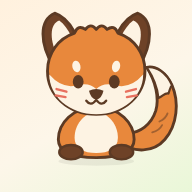
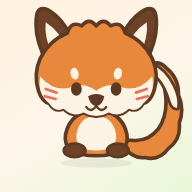
Match the reference proportions, and hinge the kiwi's beak properly
The fox was drawn at realistic proportions while the reference is chibi:
the head dominates the figure, the ears are huge, the tail is nearly as
big as the body and the linework is much heavier. The fox is redrawn to
those proportions, with fur tufts along the crown and cheeks and a cream
tail tip.

The kiwi's open beak was two parallel sticks. A beak hinges at the skull,
so the halves now share that point and fan apart toward the tip, with the
mouth visible between them.

Claude-Session: https://claude.ai/code/session_01GKCTeEFW4kYhF1b7yxURzv

Changed region(s): [[0.1562, 0.0312, 0.9688, 0.8438]]

diff --git a/app.js b/app.js
@@ -388,7 +388,7 @@ const ACCESSORY_TIERS = [
   {
     level: 2,
     label: "Mössa",
-    markup: `<g transform="translate(100,34)">
+    markup: `<g transform="translate(100,26)">
       <path d="M-30 6 Q-30 -20 0 -20 Q30 -20 30 6 Z" fill="#ff8f6b"/>
       <rect x="-33" y="4" width="66" height="9" rx="4.5" fill="#ffd0b8"/>
       <circle cx="0" cy="-24" r="7" fill="#ffd0b8"/>
@@ -430,8 +430,8 @@ const ACCESSORY_TIERS = [
   {
     level: 12,
     label: "Solglasögon",
-    offset: { kiwi: [-4, -26] },
-    markup: `<g transform="translate(101,84)">
+    offset: { kiwi: [-4, -34] },
+    markup: `<g transform="translate(100,92)">
       <ellipse cx="-20" cy="0" rx="11" ry="9" fill="#4a3f5c"/>
       <ellipse cx="20" cy="0" rx="11" ry="9" fill="#4a3f5c"/>
       <path d="M-9 -2 Q0 -9 9 -2" stroke="#4a3f5c" stroke-width="3" fill="none"/>
@@ -532,10 +532,13 @@ const KIWI_PALE = "#f2d9b6";
 // Lång smal näbb som pekar snett nedåt, med en liten näsborre nära spetsen.
 function kiwiBeakMarkup(mood) {
   if (mood === "yum") {
+    // En näbb öppnas i gångjärnet vid huvudet: halvorna sitter ihop där och
+    // glider isär mot spetsen.
     return `
-      <path d="M84 52 L28 92 Q23 96 29 98 L90 64 Z"
+      <path d="M89 62 L26 88 L37 117 Z" fill="#8c4a4a"/>
+      <path d="M84 52 L24 82 Q19 85 25 88 L90 64 Z"
             fill="${KIWI_PALE}" stroke="${KIWI_OUTLINE}" stroke-width="3" stroke-linejoin="round"/>
-      <path d="M86 74 L30 108 Q25 111 31 113 L90 86 Z"
+      <path d="M90 64 L34 113 Q30 117 36 119 L92 75 Z"
             fill="${KIWI_PALE}" stroke="${KIWI_OUTLINE}" stroke-width="3" stroke-linejoin="round"/>
     `;
   }
@@ -625,63 +628,66 @@ function foxEyesMarkup(mood, cx1, cx2, cy) {
 
 function foxMouthMarkup(mood) {
   if (mood === "yum") {
-    return `<path d="M88 106 Q100 122 112 106 Z" fill="#c4556a" stroke="${FOX_OUTLINE}" stroke-width="2.4" stroke-linejoin="round"/>`;
+    return `<path d="M88 113 Q100 129 112 113 Z" fill="#c4556a" stroke="${FOX_OUTLINE}" stroke-width="2.4" stroke-linejoin="round"/>`;
   }
   if (mood === "sad") {
-    return `<path d="M92 112 q8 -7 16 0" stroke="${FOX_OUTLINE}" stroke-width="2.6" fill="none" stroke-linecap="round"/>`;
+    return `<path d="M92 119 q8 -7 16 0" stroke="${FOX_OUTLINE}" stroke-width="2.6" fill="none" stroke-linecap="round"/>`;
   }
-  return `<path d="M100 104 q-6 8 -11 1 M100 104 q6 8 11 1" stroke="${FOX_OUTLINE}" stroke-width="2.6" fill="none" stroke-linecap="round"/>`;
+  return `<path d="M100 111 q-6 8 -11 1 M100 111 q6 8 11 1" stroke="${FOX_OUTLINE}" stroke-width="2.6" fill="none" stroke-linecap="round"/>`;
 }
 
 function renderFoxSVG(mood, level) {
   return `
   <svg viewBox="0 0 200 180" xmlns="http://www.w3.org/2000/svg">
-    <ellipse cx="100" cy="172" rx="42" ry="5" fill="#000" opacity="0.06"/>
+    <ellipse cx="100" cy="174" rx="40" ry="5" fill="#000" opacity="0.06"/>
 
-    <!-- luddig svans med ljus spets -->
-    <path d="M124 150 C142 164 164 162 176 148 C190 132 192 106 184 88 C178 74 166 66 156 68
-             C166 84 170 102 166 116 C161 132 148 140 136 141 C129 142 126 145 124 150 Z"
-          fill="${FOX_FUR}" stroke="${FOX_OUTLINE}" stroke-width="${FOX_SW}" stroke-linejoin="round"/>
-    <path d="M184 88 C178 74 166 66 156 68 C164 80 168 92 169 102
-             C174 100 176 96 180 97 C182 92 182 89 184 88 Z"
-          fill="${FOX_CREAM}" stroke="${FOX_OUTLINE}" stroke-width="2.4" stroke-linejoin="round"/>
-    <path d="M170 128 q7 -3 9 -9 M162 140 q8 -2 11 -8" stroke="${FOX_OUTLINE}" stroke-width="2" fill="none" stroke-linecap="round" opacity="0.5"/>
+    <!-- stor yvig svans, nästan lika stor som kroppen -->
+    <path d="M126 152 Q140 170 154 168 Q170 172 180 158 Q194 148 192 130 Q198 114 191 98
+             Q192 80 177 68 Q170 61 163 64 Q176 82 177 100 Q179 121 169 136
+             Q158 150 142 149 Q131 148 126 152 Z"
+          fill="${FOX_FUR}" stroke="${FOX_OUTLINE}" stroke-width="4" stroke-linejoin="round"/>
+    <path d="M163 64 Q177 70 186 88 Q193 102 191 114 Q184 116 181 106 Q174 82 160 74 Z"
+          fill="${FOX_CREAM}" stroke="${FOX_OUTLINE}" stroke-width="3" stroke-linejoin="round"/>
 
     <!-- stora öron med mörka ytterkanter -->
-    <path d="M52 66 C38 42 36 16 54 8 C72 14 82 38 86 60 Z"
-          fill="${FOX_DARK}" stroke="${FOX_OUTLINE}" stroke-width="${FOX_SW}" stroke-linejoin="round"/>
-    <path d="M58 58 C48 38 48 20 59 16 C70 24 77 42 80 57 Z" fill="${FOX_CREAM}"/>
-    <path d="M148 66 C162 42 164 16 146 8 C128 14 118 38 114 60 Z"
-          fill="${FOX_DARK}" stroke="${FOX_OUTLINE}" stroke-width="${FOX_SW}" stroke-linejoin="round"/>
-    <path d="M142 58 C152 38 152 20 141 16 C130 24 123 42 120 57 Z" fill="${FOX_CREAM}"/>
+    <path d="M46 64 Q30 34 34 10 Q36 0 46 4 Q68 16 80 54 Z"
+          fill="${FOX_DARK}" stroke="${FOX_OUTLINE}" stroke-width="4" stroke-linejoin="round"/>
+    <path d="M52 56 Q42 34 44 18 Q60 28 70 52 Z" fill="${FOX_CREAM}"/>
+    <path d="M154 64 Q170 34 166 10 Q164 0 154 4 Q132 16 120 54 Z"
+          fill="${FOX_DARK}" stroke="${FOX_OUTLINE}" stroke-width="4" stroke-linejoin="round"/>
+    <path d="M148 56 Q158 34 156 18 Q140 28 130 52 Z" fill="${FOX_CREAM}"/>
 
-    <!-- sittande kropp med mörka tassar -->
-    <path d="M100 112 C126 112 142 130 142 148 C142 162 126 168 100 168 C74 168 58 162 58 148 C58 130 74 112 100 112 Z"
-          fill="${FOX_FUR}" stroke="${FOX_OUTLINE}" stroke-width="${FOX_SW}" stroke-linejoin="round"/>
-    <path d="M100 118 C114 118 124 132 124 146 C124 158 114 163 100 163 C86 163 76 158 76 146 C76 132 86 118 100 118 Z"
+    <!-- liten kropp med mörka tassar -->
+    <path d="M100 116 Q128 116 134 142 Q138 166 100 166 Q62 166 66 142 Q72 116 100 116 Z"
+          fill="${FOX_FUR}" stroke="${FOX_OUTLINE}" stroke-width="4" stroke-linejoin="round"/>
+    <path d="M100 122 Q118 122 122 142 Q124 160 100 160 Q76 160 78 142 Q82 122 100 122 Z"
           fill="${FOX_CREAM}"/>
-    <ellipse cx="72" cy="162" rx="13" ry="8" fill="${FOX_DARK}" stroke="${FOX_OUTLINE}" stroke-width="2.6"/>
-    <ellipse cx="128" cy="162" rx="13" ry="8" fill="${FOX_DARK}" stroke="${FOX_OUTLINE}" stroke-width="2.6"/>
+    <ellipse cx="76" cy="160" rx="12" ry="7.5" fill="${FOX_DARK}" stroke="${FOX_OUTLINE}" stroke-width="3"/>
+    <ellipse cx="124" cy="160" rx="12" ry="7.5" fill="${FOX_DARK}" stroke="${FOX_OUTLINE}" stroke-width="3"/>
 
-    <!-- huvud med små pälstoppar -->
-    <path d="M100 26 Q106 18 112 26 Q120 20 124 30 C142 36 154 52 154 72
-             C154 98 132 120 100 120 C68 120 46 98 46 72
-             C46 52 58 36 76 30 Q80 20 88 26 Q94 18 100 26 Z"
-          fill="${FOX_FUR}" stroke="${FOX_OUTLINE}" stroke-width="${FOX_SW}" stroke-linejoin="round"/>
+    <!-- stort huvud med pälstoppar och luddiga kinder -->
+    <path d="M100 22 Q108 12 116 22 Q128 16 132 30
+             Q152 38 162 58 Q170 76 164 94
+             Q160 106 152 108 Q146 118 136 114
+             Q126 124 114 118 Q100 126 86 118
+             Q74 124 64 114 Q54 118 48 108
+             Q40 106 36 94 Q30 76 38 58
+             Q48 38 68 30 Q72 16 84 22 Q92 12 100 22 Z"
+          fill="${FOX_FUR}" stroke="${FOX_OUTLINE}" stroke-width="4" stroke-linejoin="round"/>
 
-    <!-- ljust nosparti över hela nedre ansiktet -->
-    <path d="M48 76 Q62 92 78 88 Q92 84 100 92 Q108 84 122 88 Q138 92 152 76
-             C152 100 130 120 100 120 C70 120 48 100 48 76 Z"
+    <!-- ljust nosparti över nedre ansiktet -->
+    <path d="M38 78 Q54 96 72 90 Q88 84 100 94 Q112 84 128 90 Q146 96 162 78
+             Q166 96 152 108 Q146 118 136 114 Q126 124 114 118 Q100 126 86 118
+             Q74 124 64 114 Q54 118 48 108 Q34 96 38 78 Z"
           fill="${FOX_CREAM}"/>
 
-    <!-- streckade kinder -->
-    <path d="M56 92 l11 3 M55 99 l11 2" stroke="#e8705f" stroke-width="2.6" stroke-linecap="round"/>
-    <path d="M144 92 l-11 3 M145 99 l-11 2" stroke="#e8705f" stroke-width="2.6" stroke-linecap="round"/>
+    <!-- kindstreck -->
+    <path d="M44 92 l12 4 M43 100 l12 3" stroke="#e8705f" stroke-width="3" stroke-linecap="round"/>
+    <path d="M156 92 l-12 4 M157 100 l-12 3" stroke="#e8705f" stroke-width="3" stroke-linecap="round"/>
 
-    ${foxEyesMarkup(mood, 80, 120, 84)}
+    ${foxEyesMarkup(mood, 78, 122, 92)}
 
-    <!-- liten mörk nos -->
-    <path d="M92 94 Q100 90 108 94 Q106 103 100 104 Q94 103 92 94 Z" fill="${FOX_OUTLINE}"/>
+    <path d="M91 100 Q100 95 109 100 Q107 110 100 111 Q93 110 91 100 Z" fill="${FOX_OUTLINE}"/>
     ${foxMouthMarkup(mood)}
     ${accessoryMarkup(level, "fox")}
   </svg>`;
